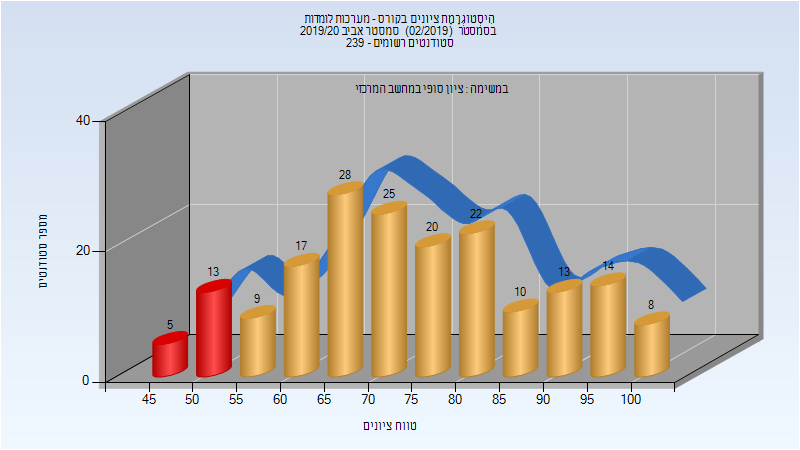
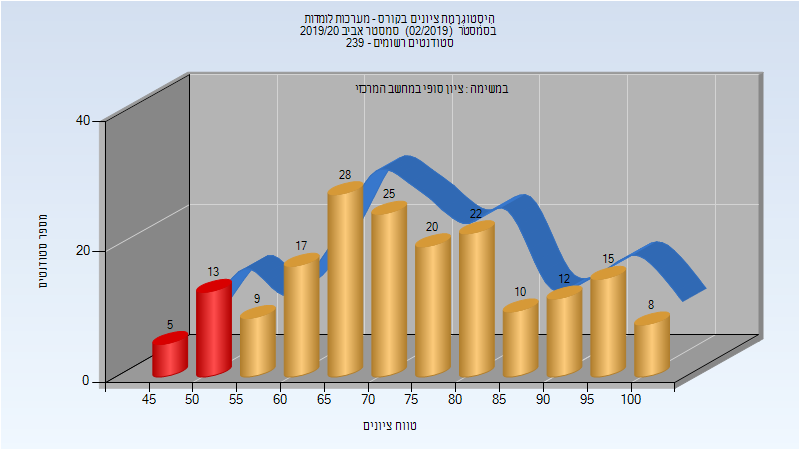
Deploy michael-maltsev/technion-histograms to github.com/michael-maltsev/technion-histograms.git:gh-pages

Changed region(s): [[0.6875, 0.5289, 0.8438, 0.6844], [0.8125, 0.56, 0.875, 0.6533]]

diff --git a/046206/index.html b/046206/index.html
@@ -347,12 +347,12 @@
 </thead>
 <tbody>
 <tr>
-<td>21</td>
-<td>20/1</td>
-<td>95</td>
+<td>26</td>
+<td>25/1</td>
+<td>96</td>
 <td>50</td>
 <td>97</td>
-<td>85.238</td>
+<td>85.115</td>
 <td>86</td>
 </tr>
 </tbody>

diff --git a/046195/index.html b/046195/index.html
@@ -1056,7 +1056,7 @@
 <td>90</td>
 <td>45</td>
 <td>100</td>
-<td>74.826</td>
+<td>74.853</td>
 <td>73.5</td>
 </tr>
 </tbody>

diff --git a/046195/README.md b/046195/README.md
@@ -324,5 +324,5 @@
 
 | סטודנטים | עברו/נכשלו | אחוז עוברים | ציון מינימלי | ציון מקסימלי | ממוצע | חציון |
 | ---- | ---- | ---- | ---- | ---- | ---- | ---- |
-| 184 | 166/18 | 90 | 45 | 100 | 74.826 | 73.5 |
+| 184 | 166/18 | 90 | 45 | 100 | 74.853 | 73.5 |
 

diff --git a/046206/README.md b/046206/README.md
@@ -106,5 +106,5 @@
 
 | סטודנטים | עברו/נכשלו | אחוז עוברים | ציון מינימלי | ציון מקסימלי | ממוצע | חציון |
 | ---- | ---- | ---- | ---- | ---- | ---- | ---- |
-| 21 | 20/1 | 95 | 50 | 97 | 85.238 | 86 |
+| 26 | 25/1 | 96 | 50 | 97 | 85.115 | 86 |
 
